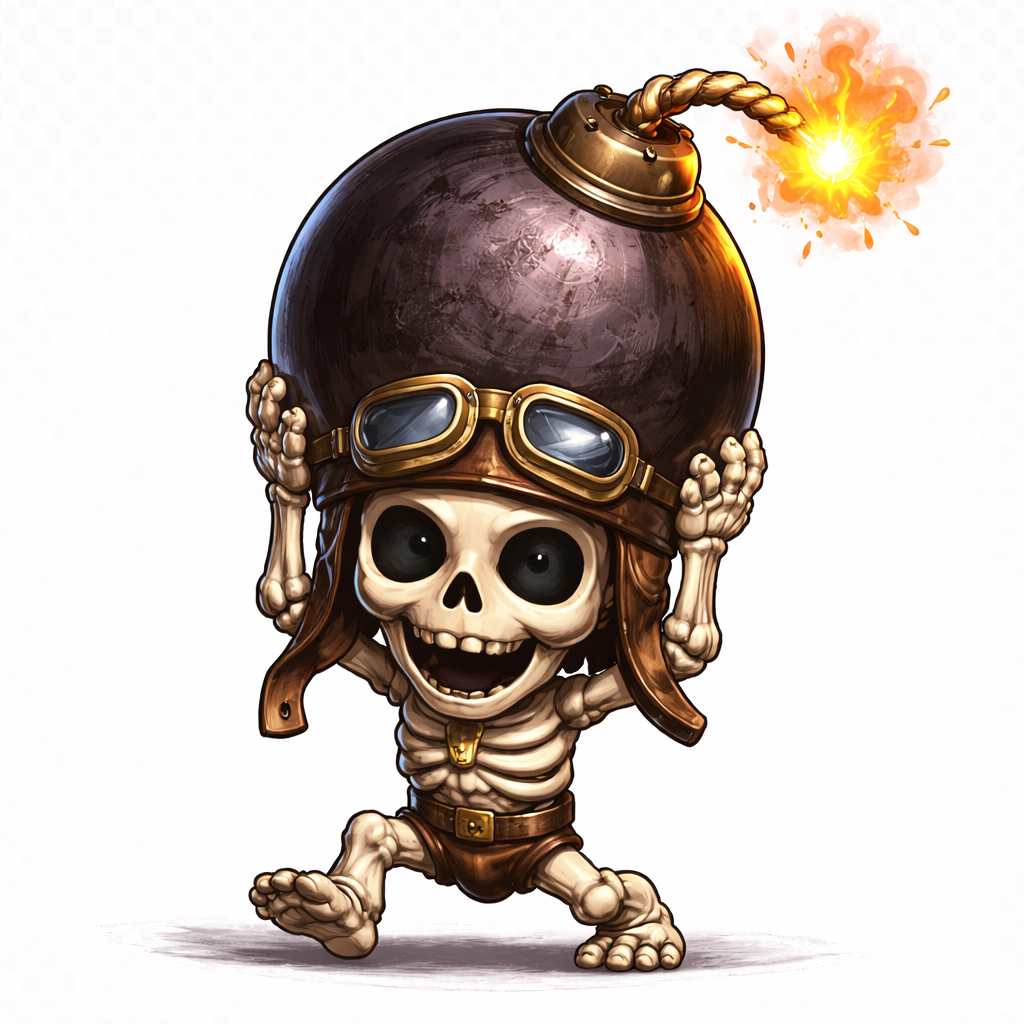
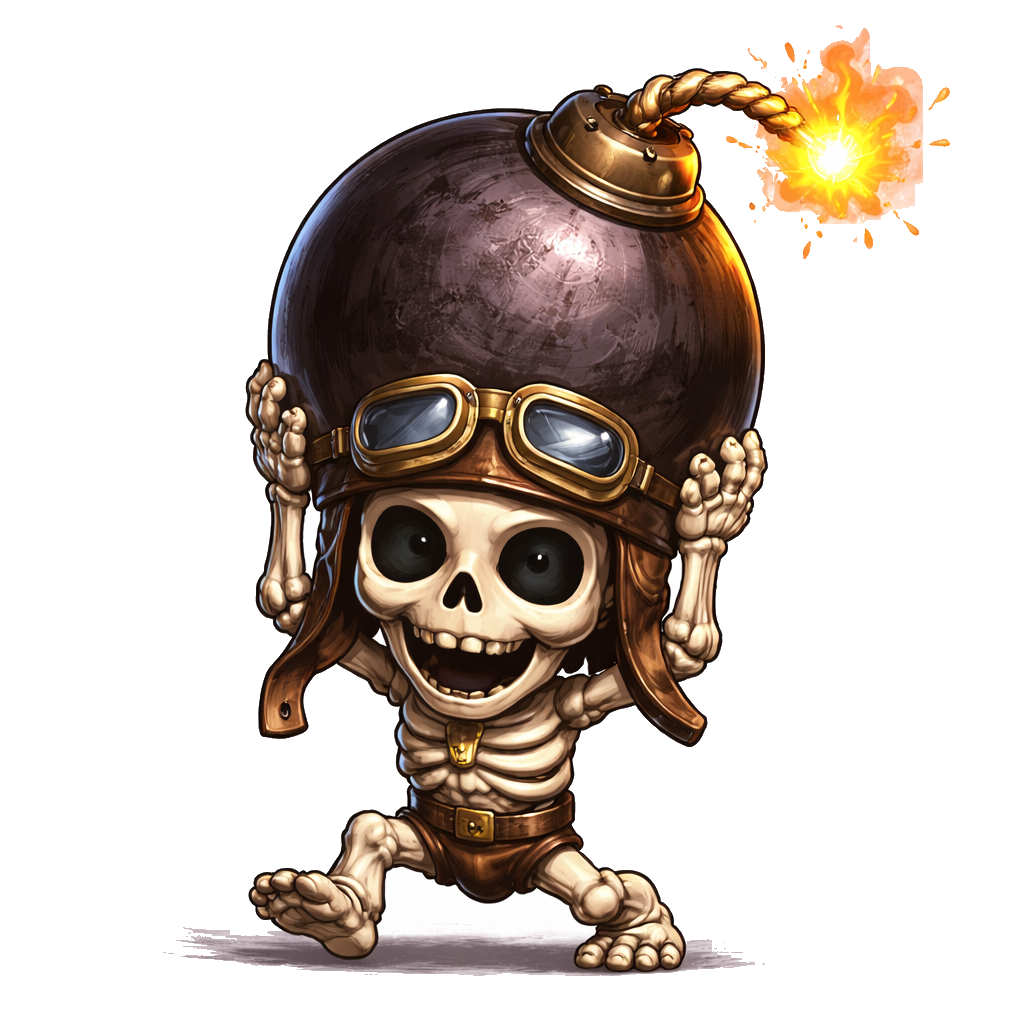
feat: remove asset white backgrounds, add project buttons, and fix mobile download flow

diff --git a/src/components/Prizes.jsx b/src/components/Prizes.jsx
@@ -6,6 +6,21 @@ const Prizes = () => {
   const { isNight, playCoinSound } = useTheme();
   const [activeFlippedCard, setActiveFlippedCard] = useState(null);
   const [showAllProjects, setShowAllProjects] = useState(false);
+  const [toastMessage, setToastMessage] = useState('');
+  const [showToast, setShowToast] = useState(false);
+  const [toastTimeoutId, setToastTimeoutId] = useState(null);
+
+  const triggerToast = (projectName) => {
+    if (toastTimeoutId) {
+      clearTimeout(toastTimeoutId);
+    }
+    setToastMessage(`🧪 Spell Factory building! The Live Demo for "${projectName}" is currently training in the laboratory. Check out GitHub for setup and build instructions!`);
+    setShowToast(true);
+    const timeout = setTimeout(() => {
+      setShowToast(false);
+    }, 4000);
+    setToastTimeoutId(timeout);
+  };
 
   const mainPrizes = [
     {
@@ -17,7 +32,8 @@ const Prizes = () => {
       characterImage: '/Second Prize.webp',
       glow: 'shadow-purple-500/20',
       border: 'border-purple-500/40',
-      link: 'https://github.com/soumyachk101/Cortex'
+      github: 'https://github.com/soumyachk101/Cortex',
+      live: '#'
     },
     {
       id: 1,
@@ -28,7 +44,8 @@ const Prizes = () => {
       characterImage: '/FIrst Prize.webp',
       glow: 'shadow-yellow-500/30',
       border: 'border-yellow-500/40',
-      link: 'https://github.com/soumyachk101/Drishti-Security'
+      github: 'https://github.com/soumyachk101/Drishti-Security',
+      live: '#'
     },
     {
       id: 3,
@@ -39,7 +56,8 @@ const Prizes = () => {
       characterImage: '/Third Prize.webp',
       glow: 'shadow-orange-500/20',
       border: 'border-orange-500/40',
-      link: 'https://github.com/soumyachk101/Neeti-AI'
+      github: 'https://github.com/soumyachk101/Neeti-AI',
+      live: '#'
     }
   ];
 
@@ -214,22 +232,44 @@ const Prizes = () => {
                     ))}
                   </ul>
 
-                  <button 
-                    onClick={(e) => {
-                      e.stopPropagation();
-                      playCoinSound();
-                      window.open(prize.link, '_blank');
-                    }}
-                    className={`w-full py-1.5 font-coc text-[8px] rounded border transition-all active:scale-95 cursor-pointer focus:outline-none ${
-                      isFirst 
-                        ? 'bg-yellow-500 text-slate-950 hover:bg-yellow-600 border-yellow-300' 
-                        : isNight 
-                          ? 'bg-purple-950/60 text-purple-200 border-purple-500/40 hover:bg-purple-900/60' 
-                          : 'bg-amber-950/60 text-yellow-200 border-yellow-700/40 hover:bg-amber-900/60'
-                    }`}
-                  >
-                    VIEW BLUEPRINT
-                  </button>
+                  <div className="flex items-center gap-2 mt-auto">
+                    <button 
+                      onClick={(e) => {
+                        e.stopPropagation();
+                        playCoinSound();
+                        window.open(prize.github, '_blank');
+                      }}
+                      className={`flex-1 py-1.5 font-coc text-[8px] rounded border transition-all active:scale-95 cursor-pointer focus:outline-none ${
+                        isFirst 
+                          ? 'bg-yellow-600 text-slate-950 border-yellow-400 hover:bg-yellow-700' 
+                          : isNight 
+                            ? 'bg-purple-950/60 text-purple-200 border-purple-500/40 hover:bg-purple-900/60' 
+                            : 'bg-amber-950/60 text-yellow-200 border-yellow-700/40 hover:bg-amber-900/60'
+                      }`}
+                    >
+                      GITHUB
+                    </button>
+                    <button 
+                      onClick={(e) => {
+                        e.stopPropagation();
+                        playCoinSound();
+                        if (prize.live !== '#') {
+                          window.open(prize.live, '_blank');
+                        } else {
+                          triggerToast(prize.title);
+                        }
+                      }}
+                      className={`flex-1 py-1.5 font-coc text-[8px] rounded border transition-all active:scale-95 cursor-pointer focus:outline-none ${
+                        isFirst 
+                          ? 'bg-yellow-500 text-slate-950 border-yellow-300 hover:bg-yellow-600' 
+                          : isNight 
+                            ? 'bg-purple-600 text-white border-purple-400 hover:bg-purple-500' 
+                            : 'bg-yellow-500 text-slate-950 border-yellow-300 hover:bg-yellow-600'
+                      }`}
+                    >
+                      LIVE
+                    </button>
+                  </div>
 
                 </div>
               </motion.div>
@@ -308,21 +348,23 @@ const Prizes = () => {
                       >
                         GITHUB
                       </button>
-                      {project.live !== '#' && (
-                        <button
-                          onClick={() => {
-                            playCoinSound();
+                      <button
+                        onClick={() => {
+                          playCoinSound();
+                          if (project.live !== '#') {
                             window.open(project.live, '_blank');
-                          }}
-                          className={`flex-1 py-1.5 font-coc text-[8px] rounded border transition-all active:scale-95 cursor-pointer focus:outline-none ${
-                            isNight 
-                              ? 'bg-purple-600 text-white border-purple-400 hover:bg-purple-500' 
-                              : 'bg-yellow-500 text-slate-950 border-yellow-300 hover:bg-yellow-600'
-                          }`}
-                        >
-                          LIVE
-                        </button>
-                      )}
+                          } else {
+                            triggerToast(project.title);
+                          }
+                        }}
+                        className={`flex-1 py-1.5 font-coc text-[8px] rounded border transition-all active:scale-95 cursor-pointer focus:outline-none ${
+                          isNight 
+                            ? 'bg-purple-600 text-white border-purple-400 hover:bg-purple-500' 
+                            : 'bg-yellow-500 text-slate-950 border-yellow-300 hover:bg-yellow-600'
+                        }`}
+                      >
+                        LIVE
+                      </button>
                     </div>
                   </motion.div>
                 ))}
@@ -445,6 +487,37 @@ const Prizes = () => {
         </div>
 
       </div>
+
+      {/* Floating Toast Notification */}
+      <AnimatePresence>
+        {showToast && (
+          <motion.div
+            initial={{ opacity: 0, y: 50, scale: 0.9 }}
+            animate={{ opacity: 1, y: 0, scale: 1 }}
+            exit={{ opacity: 0, y: 20, scale: 0.9 }}
+            className="fixed bottom-6 right-6 z-50 max-w-sm p-4 rounded-xl border-2 shadow-2xl font-coc text-[10px] text-white flex items-center gap-3 backdrop-blur-md"
+            style={{
+              backgroundImage: isNight 
+                ? "radial-gradient(circle at center, rgba(168, 85, 247, 0.2) 0%, rgba(24, 0, 51, 0.95) 100%)"
+                : "radial-gradient(circle at center, rgba(234, 179, 8, 0.2) 0%, rgba(40, 16, 0, 0.95) 100%)",
+              borderColor: isNight ? '#a855f7' : '#eab308',
+              boxShadow: isNight ? '0 10px 30px rgba(168, 85, 247, 0.3)' : '0 10px 30px rgba(234, 179, 8, 0.3)',
+            }}
+          >
+            <div className="text-2xl animate-bounce">⚡</div>
+            <div className="flex-1 leading-normal font-body text-xs text-slate-100">
+              <span className="font-coc text-yellow-400 block mb-1">LABORATORY UPGRADE!</span>
+              {toastMessage}
+            </div>
+            <button 
+              onClick={() => setShowToast(false)}
+              className="text-slate-400 hover:text-white font-coc text-xs focus:outline-none"
+            >
+              ✕
+            </button>
+          </motion.div>
+        )}
+      </AnimatePresence>
     </section>
   );
 };

diff --git a/src/components/CardGenerator.jsx b/src/components/CardGenerator.jsx
@@ -1,8 +1,8 @@
 import { useState, useRef } from 'react';
 import { useTheme } from '../context/ThemeContext';
 import html2canvas from 'html2canvas';
-import { Download } from 'lucide-react';
-import { motion } from 'framer-motion';
+import { Download, X } from 'lucide-react';
+import { motion, AnimatePresence } from 'framer-motion';
 
 const CardGenerator = () => {
   const { isNight, playCoinSound } = useTheme();
@@ -10,6 +10,9 @@ const CardGenerator = () => {
   
   const [name, setName] = useState('');
   const [selectedChar, setSelectedChar] = useState(0);
+  const [showPreviewModal, setShowPreviewModal] = useState(false);
+  const [generatedImgUrl, setGeneratedImgUrl] = useState('');
+  const [isGenerating, setIsGenerating] = useState(false);
 
   const characters = [
     { name: 'Barbarian', role: 'Full-Stack Developer', image: '/ID/Barbarian.png', glowColor: 'rgba(234, 179, 8, 0.4)' },
@@ -39,9 +42,13 @@ const CardGenerator = () => {
 
   const handleDownload = async () => {
     playCoinSound();
-    if (!cardRef.current) return;
+    if (!cardRef.current || isGenerating) return;
     
+    setIsGenerating(true);
     try {
+      // Detect mobile device
+      const isMobile = /Android|webOS|iPhone|iPad|iPod|BlackBerry|IEMobile|Opera Mini/i.test(navigator.userAgent);
+      
       // Temporarily scale up for high-res download
       const canvas = await html2canvas(cardRef.current, {
         scale: 2,
@@ -50,12 +57,22 @@ const CardGenerator = () => {
       });
 
       const url = canvas.toDataURL('image/png');
-      const link = document.createElement('a');
-      link.download = `${name ? name.replace(/\s+/g, '_') : 'recruiter'}_soumya_recruitment_card.png`;
-      link.href = url;
-      link.click();
+      setGeneratedImgUrl(url);
+
+      if (isMobile) {
+        // On mobile, show the tap-and-hold saving modal
+        setShowPreviewModal(true);
+      } else {
+        // On desktop, trigger standard download
+        const link = document.createElement('a');
+        link.download = `${name ? name.replace(/\s+/g, '_') : 'recruiter'}_soumya_recruitment_card.png`;
+        link.href = url;
+        link.click();
+      }
     } catch (err) {
       console.error('Error generating card download: ', err);
+    } finally {
+      setIsGenerating(false);
     }
   };
 
@@ -146,12 +163,15 @@ const CardGenerator = () => {
             {/* CTA Button to trigger screenshot */}
             <button
               onClick={handleDownload}
-              className={`w-full mt-4 flex items-center justify-center gap-2 py-3 px-6 text-xs sm:text-sm font-coc ${
+              disabled={isGenerating}
+              className={`w-full mt-4 flex items-center justify-center gap-2 py-3 px-6 text-xs sm:text-sm font-coc transition-all ${
+                isGenerating ? 'opacity-65 cursor-not-allowed' : ''
+              } ${
                 isNight ? 'btn-coc-purple' : 'btn-coc-gold'
               }`}
             >
               <Download size={14} />
-              <span>DOWNLOAD RECRUIT CARD</span>
+              <span>{isGenerating ? 'GENERATING BLUEPRINT...' : 'DOWNLOAD RECRUIT CARD'}</span>
             </button>
           </div>
 
@@ -263,6 +283,72 @@ const CardGenerator = () => {
         </div>
 
       </div>
+
+      {/* Mobile Download/Preview Modal */}
+      <AnimatePresence>
+        {showPreviewModal && (
+          <motion.div
+            initial={{ opacity: 0 }}
+            animate={{ opacity: 1 }}
+            exit={{ opacity: 0 }}
+            className="fixed inset-0 z-50 flex items-center justify-center p-4 bg-black/85 backdrop-blur-md"
+          >
+            <motion.div
+              initial={{ scale: 0.9, y: 20 }}
+              animate={{ scale: 1, y: 0 }}
+              exit={{ scale: 0.9, y: 20 }}
+              className={`w-full max-w-sm p-6 rounded-2xl border-3 shadow-2xl relative text-center ${
+                isNight ? 'panel-wood-night border-purple-500 shadow-purple-500/20' : 'panel-wood-day border-yellow-600 shadow-yellow-600/20'
+              }`}
+            >
+              {/* Close Button */}
+              <button
+                onClick={() => {
+                  playCoinSound();
+                  setShowPreviewModal(false);
+                }}
+                className="absolute top-4 right-4 text-slate-400 hover:text-white transition-colors focus:outline-none"
+              >
+                <X size={20} />
+              </button>
+
+              <h3 className="font-coc text-sm text-white mb-2 tracking-wide uppercase">
+                🛡 CARD GENERATED!
+              </h3>
+              
+              <p className="text-[11px] text-slate-300 font-body leading-relaxed mb-6 px-2">
+                👇 <strong className="text-yellow-400">TAP AND HOLD (LONG PRESS)</strong> the image below, then select <strong className="text-yellow-400">"Save to Photos"</strong> or <strong className="text-yellow-400">"Download Image"</strong> to save your card.
+              </p>
+
+              {/* Image Preview Container */}
+              <div className="flex justify-center mb-6 max-h-[350px] overflow-hidden rounded-xl border border-slate-800 bg-slate-950 p-2 shadow-inner">
+                <img
+                  src={generatedImgUrl}
+                  alt="Recruitment Card"
+                  className="max-h-[330px] w-auto object-contain rounded-lg pointer-events-auto"
+                  style={{
+                    WebkitTouchCallout: 'default',
+                  }}
+                />
+              </div>
+
+              <button
+                onClick={() => {
+                  playCoinSound();
+                  setShowPreviewModal(false);
+                }}
+                className={`w-full py-2.5 font-coc text-[10px] sm:text-xs rounded border transition-all active:scale-95 cursor-pointer focus:outline-none ${
+                  isNight 
+                    ? 'bg-purple-600 text-white border-purple-400 hover:bg-purple-500' 
+                    : 'bg-yellow-500 text-slate-950 border-yellow-300 hover:bg-yellow-600'
+                }`}
+              >
+                RETURN TO VILLAGE
+              </button>
+            </motion.div>
+          </motion.div>
+        )}
+      </AnimatePresence>
     </section>
   );
 };
